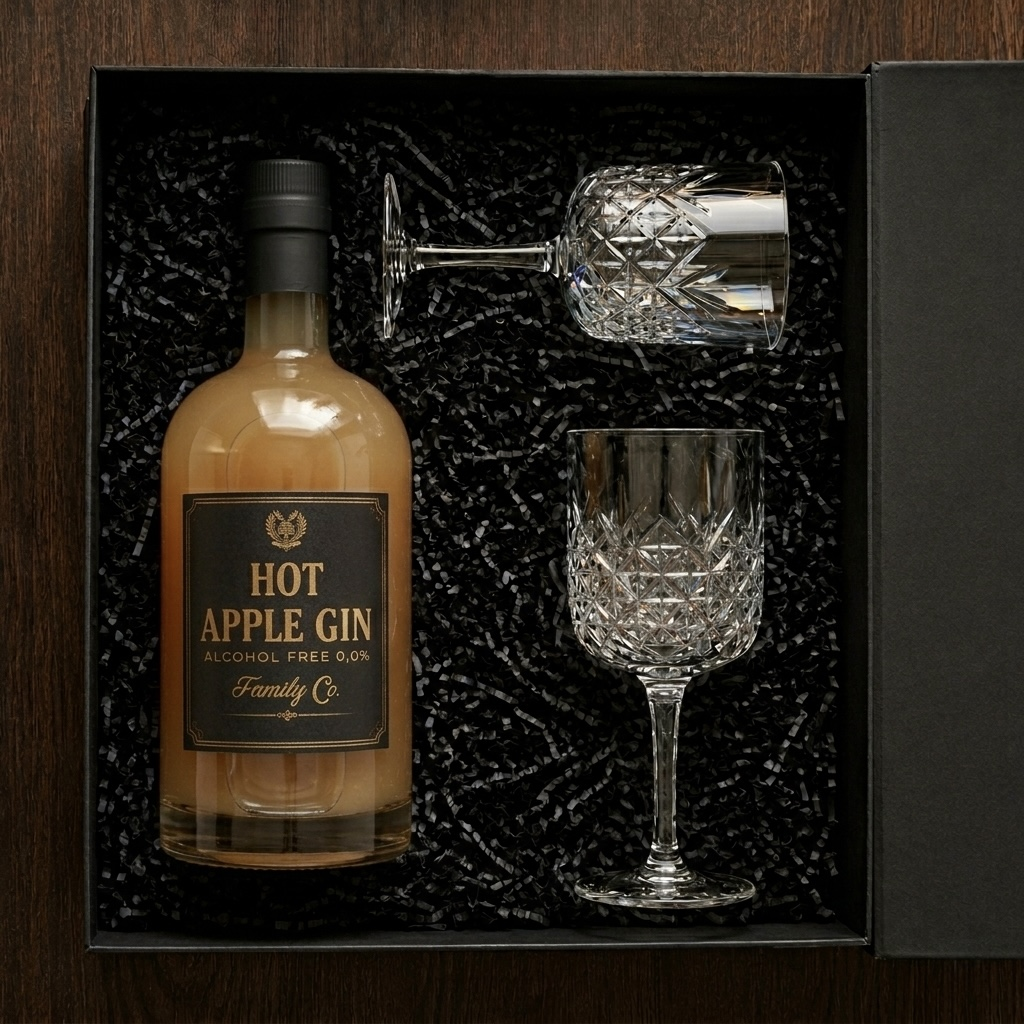
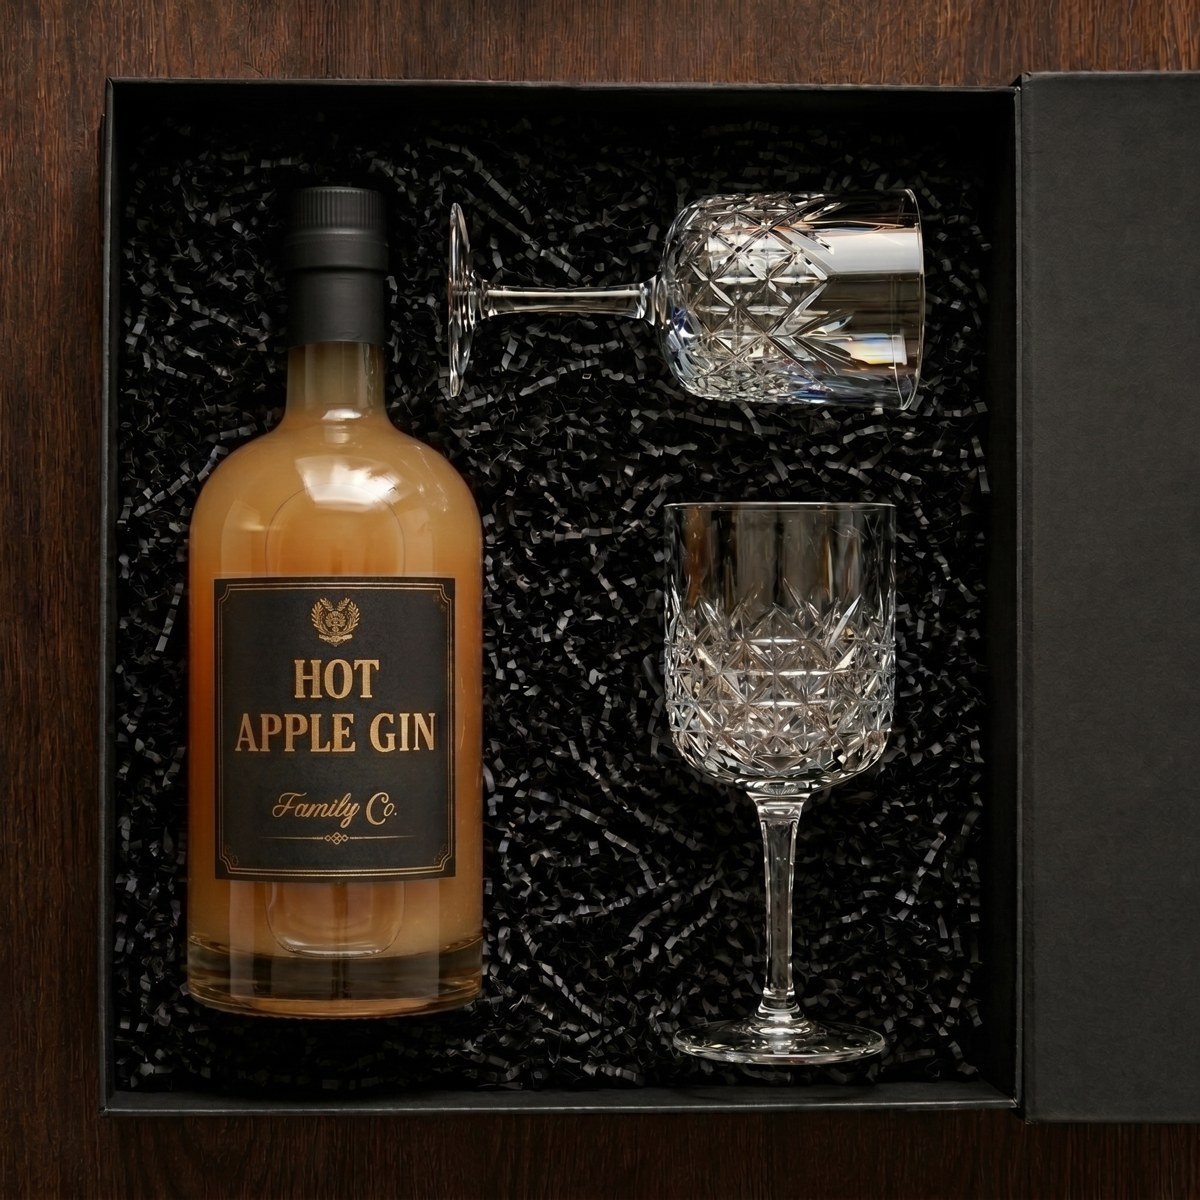
Collection: fix Original Gift Set label (remove erroneous 'ALCOHOL FREE 0,0%' from the 4.1% bottle via image edit); WWBI caption tweaks (dress fancy / one bright idea)

diff --git a/app/[lang]/where-we-blend-in/page.tsx b/app/[lang]/where-we-blend-in/page.tsx
@@ -7,8 +7,8 @@ export const metadata = { title: 'Where We Blend In' };
 const tiles: [string, string, string][] = [
  ['wwbi-terrace-two.jpg', 'Your favourite terrace', "Nothing says 'just one' quite like the second round."],
  ['wwbi-apres-inside.jpg', 'Après-ski', 'Who needs skiing, when you can have this?'],
- ['wwbi-christmas-dinner.jpg', 'Christmas dinner', 'Dress code: fancy.\nWe already did.'],
- ['wwbi-market-crowd.jpg', 'Winter fairs', 'Thousands of lights.\nYet one bright idea.'],
+ ['wwbi-christmas-dinner.jpg', 'Christmas dinner', 'Dress code: dress fancy.\nWe already did.'],
+ ['wwbi-market-crowd.jpg', 'Winter fairs', 'Thousands of lights.\nOne bright idea.'],
  ['wwbi-backyard.jpg', 'The back garden', 'When one drink in the garden turns into an evening.'],
  ['wwbi-icerink.jpg', 'Rink-side', 'Some people actually came here to skate.'],
  ['wwbi-garden-group-tap.jpg', 'Slope-side', "Five litres looked ambitious.\nIt wasn't."],